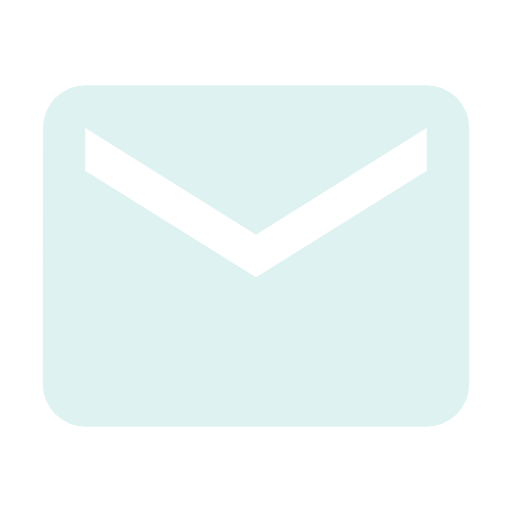
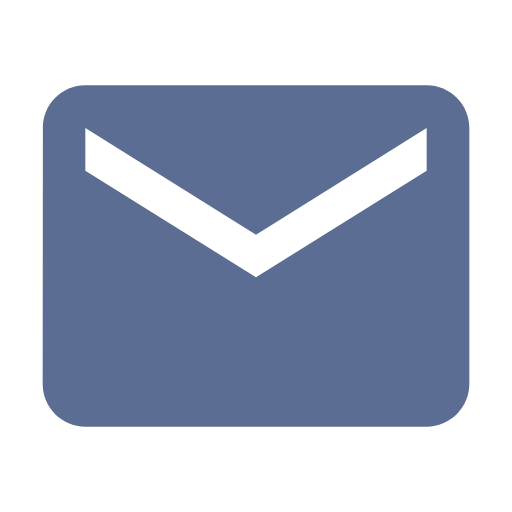
changed color themes

diff --git a/portfolio/src/components/Experience/Experience.scss b/portfolio/src/components/Experience/Experience.scss
@@ -1,5 +1,5 @@
 .Experience {
-    background-color: #314455;
+    background-color: #F0E2D2;
     
     overflow: hidden;
     display: flex;
@@ -13,7 +13,7 @@
         font-size: 60px;
         
         text-align: center;
-        color: #9E5A63;
+        color: #5B6D92;
         margin-bottom: 8%;
     }
 
@@ -37,7 +37,7 @@
         left: 58%;
         height: 100%;
         width: 6px;
-        background-color: whitesmoke;
+        background-color: #D18266;
         z-index: 1;
     }
     .timeline {
@@ -65,6 +65,7 @@
     .timeline-content:hover {
         scale:105%;
         opacity: 1;
+        
     }
 
     
@@ -82,14 +83,14 @@
 
     .timeline-content {
         padding: 20px 30px;
-
-        background-color: whitesmoke;
+        
+        background-color: #EFEEE5;
         position: relative;
         border-radius: 6px;
         height: 22.5vh;
         font-size: 18px;
         font-weight: 300;
-        color: black;
+        color: #364042;
         ;
         h2 {
             font-weight: 600;
@@ -111,7 +112,7 @@
             z-index: 1;
             border-top: 15px solid transparent;
             border-bottom: 15px solid transparent;
-            border-left: 15px solid whitesmoke;
+            border-left: 15px solid #EFEEE5;
             right: -14px;
         }
 
@@ -123,7 +124,7 @@
             z-index: 1;
             border-top: 15px solid transparent;
             border-bottom: 15px solid transparent;
-            border-right: 15px solid whitesmoke;
+            border-right: 15px solid #EFEEE5;
             left: -14px;
         }
     }

diff --git a/portfolio/src/components/Landing/Landing.jsx b/portfolio/src/components/Landing/Landing.jsx
@@ -35,11 +35,23 @@ export default function Landing() {
                         )
                     })}
             </motion.h1>
+            <motion.h2
+                initial={{ opacity: 0, scale: 0.5 }}
+                animate={{ opacity: 1, scale: 1 }}
+                transition={{ duration: 1, delay: 1.5}}>
+                    {"I'm Shahrukh.".split("").map((char,index) => {
+                        return (
+                            <motion.span key={char + "-" + index} variants={letter}>
+                                {char}
+                            </motion.span>
+                        )
+                    })}
+            </motion.h2>
             <motion.h3
                 initial={{ opacity: 0, scale: 0.5 }}
                 animate={{ opacity: 1, scale: 1 }}
                 transition={{ duration: 1, delay: 1.5}}>
-                    {"I'm Shahrukh".split("").map((char,index) => {
+                    {"Forever learning, always curious.".split("").map((char,index) => {
                         return (
                             <motion.span key={char + "-" + index} variants={letter}>
                                 {char}

diff --git a/portfolio/src/components/Portfolio/Portfolio.scss b/portfolio/src/components/Portfolio/Portfolio.scss
@@ -2,7 +2,7 @@
     display: flex;
     flex-direction: column;
     align-items: center;
-    background-color: #314455;
+    background-color: #F0E2D2;
     margin-left: 10vw;
     width: 90vw;
 
@@ -12,7 +12,7 @@
         margin-top:2%;
 
         h3 {
-            color: whitesmoke
+            color: #364042
         }
     }
     
@@ -22,7 +22,7 @@
     font-size: 3.5rem;
     margin-bottom: 1rem;
     align-self: baseline;
-    color: #9E5A63;
+    color: #5B6D92;
     
 }
 
@@ -43,7 +43,7 @@
     padding-right: 10px;
 }
 .portfolio--card:hover {
-    background-color: #425164
+    background-color: rgb(0,0,0,0.1)
 }
 
 
@@ -52,6 +52,7 @@
     height: 300px;
     border-radius: 2%;
     object-fit: cover;
+    border: 1px solid #364042;
 }
 
 
@@ -69,7 +70,7 @@
 
 .card--titles {
     font-size: 2.5rem;
-    color: #97AABD;
+    color: #D18266;
     /* text-align: center; */
     margin-bottom: 1rem; 
 
@@ -77,12 +78,13 @@
         width: 30px;
         margin-left: 10px;
         margin-top: 5px;
+        
     }
 }
 
 .card--descriptions {
     font-size: 1.2rem;
-    color: whitesmoke;
+    color: #364042;
     /* text-align: center; */
 }
 

diff --git a/portfolio/src/components/Contact/Contact.scss b/portfolio/src/components/Contact/Contact.scss
@@ -23,7 +23,7 @@
             img {
                 height: 100px;
                 width: 100px;
-                opacity: 60%;
+                opacity:70%;
             }
             img:hover {
                 scale:150%;
@@ -35,7 +35,7 @@
     h1{
         font-size: 100px;
         line-height: 88px;
-        color:#97AABD
+        color:#5B6D92
     }
     H2 {
         color: #C96567;
@@ -48,15 +48,15 @@
     @keyframes glow {
         0% {
           stroke-width: .5;
-          filter: drop-shadow(0 0 5px #C96567);
+          filter: drop-shadow(0 0 5px #D18266);
         }
         50% {
           stroke-width: 1.2;
-          filter: drop-shadow(0 0 20px #C96567);
+          filter: drop-shadow(0 0 20px #D18266);
         }
         100% {
           stroke-width: .5;
-          filter: drop-shadow(0 0 5px #C96567);
+          filter: drop-shadow(0 0 5px #D18266);
         }
       }
       

diff --git a/portfolio/src/components/Hero/Hero.scss b/portfolio/src/components/Hero/Hero.scss
@@ -1,7 +1,7 @@
 .hero {
     height: calc(100vh - 100px);
     // height: 100vh;
-    background: #314455;
+    background: #F0E2D2;
     overflow: hidden;
     position: relative;
     margin-left: 10vw;
@@ -50,10 +50,10 @@
 .hero--h2{
     font-size: 1.25rem;
     line-height: 2rem;
-    color: whitesmoke;
+    color: #364042;
     
     a {
-        color: #C96567;
+        color: #D18266;
     }
     
 }
@@ -61,7 +61,7 @@
 .hero--h1 {
     font-size: 75px;
     font-weight: bold;
-    color: #9E5A63;;
+    color: #5B6D92;;
     letter-spacing: 1px;
     width: 80vw;
     
@@ -89,7 +89,7 @@
 .hero--profile {
     height: 200px;
     
-    border: 1px solid white;
+    border: 1px solid #D18266;
     
     object-fit: cover;
     border-radius: 50%;

diff --git a/portfolio/src/components/Navbar/Navbar.scss b/portfolio/src/components/Navbar/Navbar.scss
@@ -8,7 +8,7 @@
     flex-direction: column;
     align-items: center;
     justify-content: center;
-    background-color: #314455;
+    background-color: #F0E2D2;
     z-index: 10000;
     
 }
@@ -44,7 +44,7 @@ nav {
 button {
     background: transparent;
     border: none;
-    color: whitesmoke;
+    color: #5B6D92;
     cursor: pointer;
     transition: transform 0.3s ease; /* Smooth transition for scaling */
 }
@@ -57,7 +57,7 @@ button:hover {
 
 .navbar--title {
     font-weight: bold;
-    color: whitesmoke;
+    color: #D5E3E6;
     font-size: 30px;
     margin-bottom: 20px;
 }
@@ -65,6 +65,6 @@ button:hover {
 
 button.active {
     font-weight: 500;
-    color: #C96567; 
+    color: #D18266; 
     scale: 140%;
 }

diff --git a/portfolio/src/components/Landing/Landing.scss b/portfolio/src/components/Landing/Landing.scss
@@ -9,12 +9,15 @@
     gap: 1rem;
     border-radius: 100px;
     h1 {
-        color: #C96567;
-        
+        color: #5B6D92;
         font-size: 188px;
     }
-    h3 {
-        color: #97AABD;
+    h2 {
+        color: #D18266;
         font-size: 50px;
+    }
+    h3 {
+        color: #364042;
+        font-size: 30px;
     }
 }

diff --git a/portfolio/src/App.css b/portfolio/src/App.css
@@ -23,7 +23,7 @@ a {
 section {
     height: 100vh;
     scroll-snap-align: center;
-    background-color: #314455;
+    background-color: #F0E2D2;
 }
 
 .section--portfolio {
